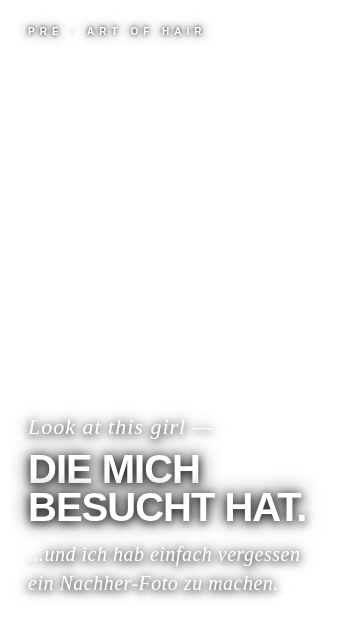
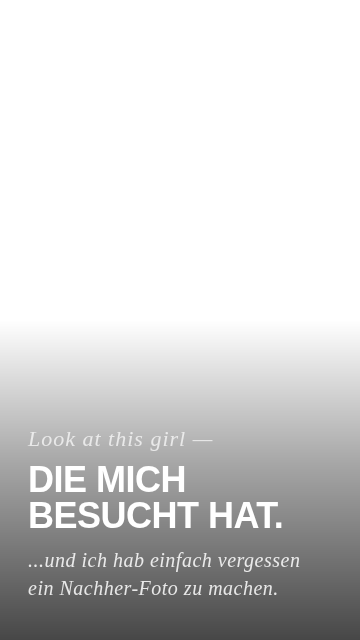
Both stories: restore gradient overlay format matching overlay-story.html
https://claude.ai/code/session_01BaC8m9wAmbtKccXQSCmnYc

diff --git a/story-10jahre.html b/story-10jahre.html
@@ -12,75 +12,75 @@
       overflow: hidden;
     }
 
+    /* Gradient unten — identisch wie overlay-story.html */
+    .gradient {
+      position: absolute;
+      left: 0; right: 0; bottom: 0;
+      height: 320px;
+      background: linear-gradient(to top,
+        rgba(0,0,0,0.72) 0%,
+        rgba(0,0,0,0.35) 55%,
+        transparent 100%);
+    }
+
     .logo {
       position: absolute;
-      top: 26px; left: 28px;
-      font-weight: 700; font-size: 10px;
+      top: 26px; right: 26px;
+      font-weight: 700; font-size: 11px;
       letter-spacing: 5px; text-transform: uppercase;
-      color: #fff;
-      text-shadow: 0 0 12px rgba(0,0,0,1), 0 0 4px rgba(0,0,0,1);
+      color: rgba(255,255,255,0.5);
     }
 
     .text-block {
       position: absolute;
-      bottom: 42px; left: 28px; right: 28px;
+      bottom: 38px; left: 28px; right: 28px;
     }
 
     .tag {
       font-family: 'Cormorant Garamond', serif;
       font-style: italic; font-weight: 300;
-      font-size: 20px;
-      color: #fff;
-      letter-spacing: 0.5px;
-      margin-bottom: 8px;
-      text-shadow: 0 0 16px rgba(0,0,0,1), 0 2px 8px rgba(0,0,0,1);
+      font-size: 22px;
+      color: rgba(255,255,255,0.7);
+      letter-spacing: 1px;
+      margin-bottom: 10px;
     }
 
     .main {
       font-weight: 900;
-      font-size: 52px;
-      line-height: 0.88;
-      letter-spacing: -2px;
+      font-size: 46px;
+      line-height: 0.92;
+      letter-spacing: -1.5px;
       color: #fff;
       text-transform: uppercase;
       margin-bottom: 14px;
-      text-shadow: 0 0 20px rgba(0,0,0,1), 0 2px 10px rgba(0,0,0,1);
     }
 
     .faden {
       font-family: 'Cormorant Garamond', serif;
       font-style: italic; font-weight: 400;
       font-size: 22px;
-      color: #fff;
+      color: rgba(255,255,255,0.85);
       letter-spacing: 0.5px;
-      margin-bottom: 14px;
-      text-shadow: 0 0 16px rgba(0,0,0,1), 0 2px 8px rgba(0,0,0,1);
-    }
-
-    .divider {
-      width: 28px; height: 1px;
-      background: rgba(255,255,255,0.8);
-      margin-bottom: 14px;
+      margin-bottom: 12px;
     }
 
     .accent {
       font-family: 'Cormorant Garamond', serif;
       font-style: italic; font-weight: 300;
-      font-size: 18px;
-      color: #fff;
+      font-size: 19px;
+      color: rgba(255,255,255,0.7);
       letter-spacing: 0.3px;
       line-height: 1.45;
-      text-shadow: 0 0 16px rgba(0,0,0,1), 0 2px 8px rgba(0,0,0,1);
     }
   </style>
 </head>
 <body>
-  <div class="logo">PRE · Art of Hair</div>
+  <div class="gradient"></div>
+  <div class="logo">PRE</div>
   <div class="text-block">
     <div class="tag">Stammkunde seit</div>
     <div class="main">10<br>Jahre.</div>
     <div class="faden">Faden.</div>
-    <div class="divider"></div>
     <div class="accent">Nächstes Mal — endlich hab<br>ich ihn überzeugt einen<br>anderen Haarschnitt zu machen.</div>
   </div>
 </body>

diff --git a/story-look-girl.html b/story-look-girl.html
@@ -12,54 +12,62 @@
       overflow: hidden;
     }
 
+    /* Gradient unten — identisch wie overlay-story.html */
+    .gradient {
+      position: absolute;
+      left: 0; right: 0; bottom: 0;
+      height: 320px;
+      background: linear-gradient(to top,
+        rgba(0,0,0,0.72) 0%,
+        rgba(0,0,0,0.35) 55%,
+        transparent 100%);
+    }
+
     .logo {
       position: absolute;
-      top: 26px; left: 28px;
-      font-weight: 700; font-size: 10px;
+      top: 26px; right: 26px;
+      font-weight: 700; font-size: 11px;
       letter-spacing: 5px; text-transform: uppercase;
-      color: #fff;
-      text-shadow: 0 0 12px rgba(0,0,0,1), 0 0 4px rgba(0,0,0,1);
+      color: rgba(255,255,255,0.5);
     }
 
     .text-block {
       position: absolute;
-      bottom: 42px; left: 28px; right: 28px;
+      bottom: 38px; left: 28px; right: 28px;
     }
 
     .greeting {
       font-family: 'Cormorant Garamond', serif;
       font-style: italic; font-weight: 300;
       font-size: 22px;
-      color: #fff;
+      color: rgba(255,255,255,0.7);
       letter-spacing: 1px;
       margin-bottom: 10px;
-      text-shadow: 0 0 16px rgba(0,0,0,1), 0 2px 8px rgba(0,0,0,1);
     }
 
     .main {
       font-weight: 900;
-      font-size: 40px;
-      line-height: 0.95;
-      letter-spacing: -1px;
+      font-size: 36px;
+      line-height: 1.0;
+      letter-spacing: -0.5px;
       color: #fff;
       text-transform: uppercase;
-      margin-bottom: 14px;
-      text-shadow: 0 0 20px rgba(0,0,0,1), 0 2px 10px rgba(0,0,0,1);
+      margin-bottom: 12px;
     }
 
     .accent {
       font-family: 'Cormorant Garamond', serif;
       font-style: italic; font-weight: 400;
       font-size: 20px;
-      color: #fff;
+      color: rgba(255,255,255,0.85);
       letter-spacing: 0.5px;
-      line-height: 1.45;
-      text-shadow: 0 0 16px rgba(0,0,0,1), 0 2px 8px rgba(0,0,0,1);
+      line-height: 1.4;
     }
   </style>
 </head>
 <body>
-  <div class="logo">PRE · Art of Hair</div>
+  <div class="gradient"></div>
+  <div class="logo">PRE</div>
   <div class="text-block">
     <div class="greeting">Look at this girl —</div>
     <div class="main">die mich<br>besucht hat.</div>
